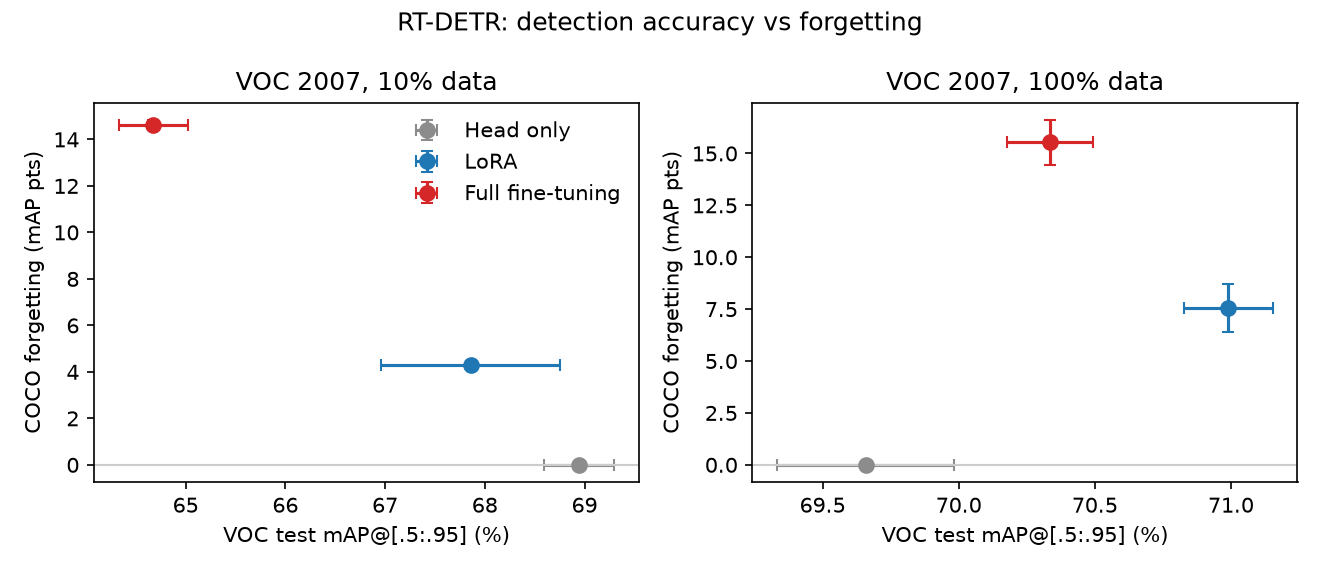
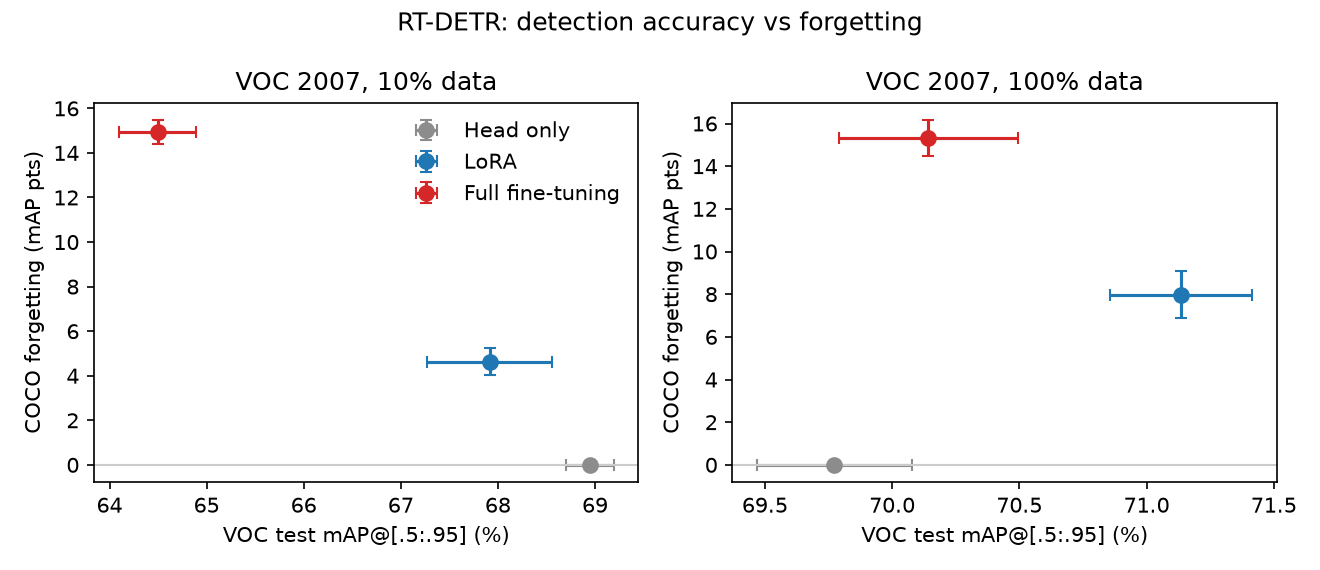
detrank and 3seed

diff --git a/results/report/summary.md b/results/report/summary.md
@@ -29,9 +29,9 @@
 
 | Model | Data | Method | VOC mAP (%) | VOC mAP@0.5 (%) | COCO forgetting (mAP pts) | Trainable (%) | Peak mem (GB) | Time/epoch (s) | Seeds |
 |---|---|---|---|---|---|---|---|---|---|
-| PekingU/rtdetr_r18vd | 10% | Head only | 68.9 ± 0.4 | 88.5 ± 0.4 | -0.00 ± 0.00 | 0.13 | 9.73 | 10.2 | 2 |
-| PekingU/rtdetr_r18vd | 10% | LoRA | 67.9 ± 0.9 | 87.4 ± 0.6 | 4.29 ± 0.16 | 2.58 | 10.56 | 15.0 | 2 |
-| PekingU/rtdetr_r18vd | 10% | Full fine-tuning | 64.7 ± 0.3 | 85.4 ± 0.0 | 14.63 ± 0.22 | 100.00 | 11.57 | 15.6 | 2 |
-| PekingU/rtdetr_r18vd | 100% | Head only | 69.7 ± 0.3 | 89.1 ± 0.4 | -0.01 ± 0.00 | 0.13 | 9.73 | 80.4 | 2 |
-| PekingU/rtdetr_r18vd | 100% | LoRA | 71.0 ± 0.2 | 89.1 ± 0.0 | 7.55 ± 1.14 | 2.58 | 10.56 | 111.1 | 2 |
-| PekingU/rtdetr_r18vd | 100% | Full fine-tuning | 70.3 ± 0.2 | 89.5 ± 0.4 | 15.53 ± 1.09 | 100.00 | 11.57 | 173.4 | 2 |
+| PekingU/rtdetr_r18vd | 10% | Head only | 68.9 ± 0.2 | 88.4 ± 0.3 | -0.00 ± 0.00 | 0.13 | 9.73 | 9.9 | 3 |
+| PekingU/rtdetr_r18vd | 10% | LoRA | 67.9 ± 0.6 | 87.4 ± 0.4 | 4.64 ± 0.60 | 2.58 | 10.56 | 14.6 | 3 |
+| PekingU/rtdetr_r18vd | 10% | Full fine-tuning | 64.5 ± 0.4 | 85.3 ± 0.3 | 14.94 ± 0.55 | 100.00 | 11.57 | 15.3 | 3 |
+| PekingU/rtdetr_r18vd | 100% | Head only | 69.8 ± 0.3 | 89.2 ± 0.3 | -0.01 ± 0.00 | 0.13 | 9.73 | 86.8 | 3 |
+| PekingU/rtdetr_r18vd | 100% | LoRA | 71.1 ± 0.3 | 89.1 ± 0.0 | 7.98 ± 1.10 | 2.58 | 10.56 | 123.5 | 3 |
+| PekingU/rtdetr_r18vd | 100% | Full fine-tuning | 70.1 ± 0.4 | 89.4 ± 0.4 | 15.32 ± 0.85 | 100.00 | 11.57 | 169.0 | 3 |
